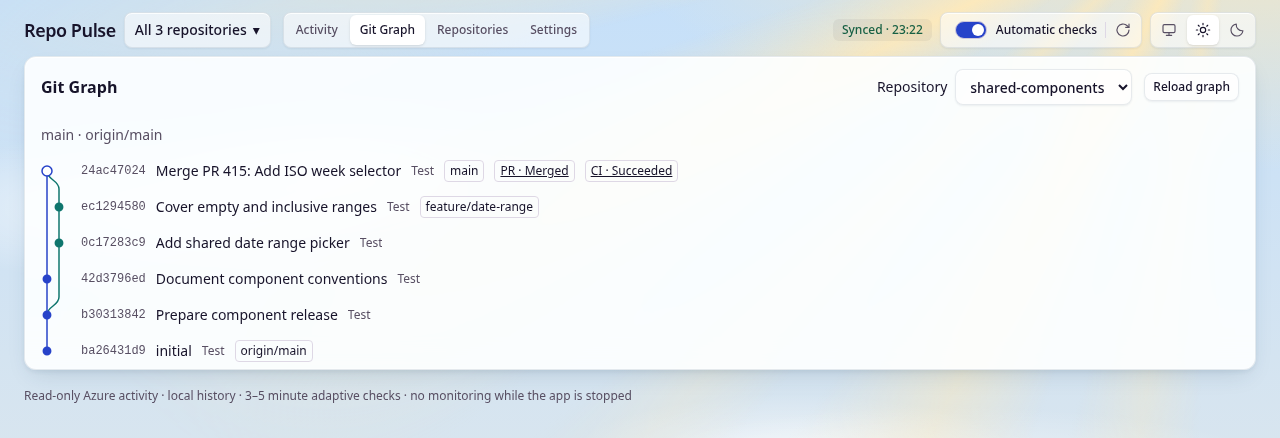
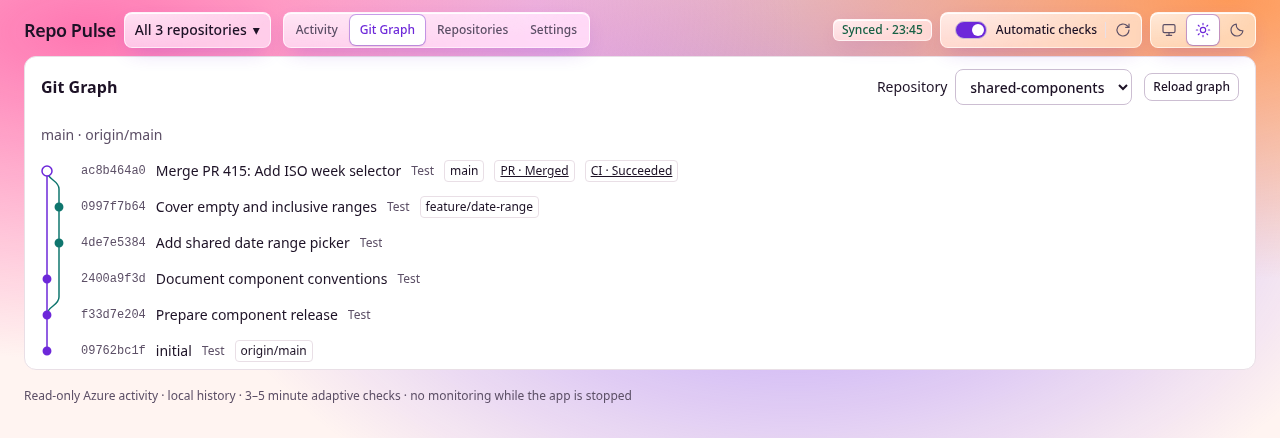
Bring Ember Orbs to light mode

diff --git a/e2e/ui.test.ts b/e2e/ui.test.ts
@@ -98,7 +98,7 @@ test('the row Seen toggle keeps keyboard focus and shows state without a status 
   await expect(seen).toHaveAttribute('aria-pressed', 'false');
   await expect(seen).toBeFocused();
 
-  // A kind without its own tint (a draft PR) still gets the unread wash, and loses it once seen.
+  // A draft PR gets the unread marker and loses it once seen.
   runtime.store.insertEvents([
     {
       id: 'live-draft',
@@ -113,11 +113,11 @@ test('the row Seen toggle keeps keyboard focus and shows state without a status 
   await page.reload();
   const draft = page.locator('li[data-event-id="live-draft"]');
   await expect(draft).toHaveClass(/\btone-neutral\b/);
-  const wash = () => draft.evaluate(element => getComputedStyle(element).backgroundImage);
-  assert.notEqual(await wash(), 'none');
+  await expect(draft).toHaveCSS('box-shadow', /inset/);
+  await expect(draft).toHaveCSS('background-image', 'none');
   await draft.locator('.seen-toggle').click();
   await expect(draft.locator('.seen-toggle')).toHaveAttribute('aria-pressed', 'true');
-  assert.equal(await wash(), 'none');
+  await expect(draft).toHaveCSS('box-shadow', 'none');
 });
 
 test('approved light/dark/System UI and responsive routes work without remote traffic', async t => {
@@ -156,7 +156,7 @@ test('approved light/dark/System UI and responsive routes work without remote tr
   await page.screenshot({ path: 'test-results/app-phone-light.png', fullPage: true });
 });
 
-test('Golden Hour keeps primary actions legible and the desktop Activity summary stacked', async t => {
+test('Ember Orbs keeps glass on the chrome and leaves the Activity feed opaque', async t => {
   const { page } = await setup(t);
   await page.getByRole('button', { name: 'Save filter…' }).click();
   const save = page.getByRole('dialog').getByRole('button', { name: 'Save', exact: true });
@@ -182,8 +182,16 @@ test('Golden Hour keeps primary actions legible and the desktop Activity summary
   const headline = await summary.locator('.headline').boundingBox();
   const counts = await summary.locator('.cells').boundingBox();
   assert.ok(headline && counts && counts.y >= headline.y + headline.height, 'Counts sit below the headline on desktop');
-  assert.match(await page.locator('body').evaluate(body => getComputedStyle(body, '::after').backgroundImage), /conic-gradient/);
+  assert.match(await page.locator('body').evaluate(body => getComputedStyle(body, '::before').backgroundImage), /255, 77, 157/);
   await expect(summary).toHaveCSS('backdrop-filter', /blur/);
+  await expect(page.locator('.feed')).toHaveCSS('backdrop-filter', 'none');
+  await expect(page.locator('.feed')).toHaveCSS('background-color', 'rgb(255, 255, 255)');
+  const session = await page.context().newCDPSession(page);
+  await session.send('Emulation.setEmulatedMedia', { features: [{ name: 'prefers-reduced-transparency', value: 'reduce' }] });
+  await expect(summary).toHaveCSS('backdrop-filter', 'none');
+  await expect(summary).toHaveCSS('background-color', 'rgb(255, 255, 255)');
+  await session.send('Emulation.setEmulatedMedia', { features: [] });
+  await session.detach();
   await page.setViewportSize({ width: 390, height: 844 });
   await expect(summary.locator('.headline')).toBeVisible();
   await expect(summary.locator('.cells')).toBeHidden();
@@ -1636,14 +1644,9 @@ test('semantic status colors match rows, imported history, details and trails in
         const token = kind.classList.contains('merged') ? '--merged' : defaultToken;
         const foreground = rgba(getComputedStyle(kind).color);
         let background = rgba(getComputedStyle(card).backgroundColor);
-        const [cardRed, cardGreen, cardBlue, cardAlpha] = background;
-        if (cardAlpha < 255) {
-          const sky = rgba(tokens.getPropertyValue('--sky-blue'));
-          const blend = (channel: number, base: number) => (channel * cardAlpha + base * (255 - cardAlpha)) / 255;
-          background = [blend(cardRed, sky[0]), blend(cardGreen, sky[1]), blend(cardBlue, sky[2]), 255];
-        }
+        const hasWash = getComputedStyle(row).backgroundImage !== 'none';
         const washToken = washes[tone];
-        if (washToken) {
+        if (washToken && hasWash) {
           const [washRed, washGreen, washBlue, washAlpha] = rgba(tokens.getPropertyValue(washToken));
           const blend = (value: number, tint: number) => (tint * washAlpha) / 255 + value * (1 - washAlpha / 255);
           const [red, green, blue] = background;
@@ -1654,8 +1657,9 @@ test('semantic status colors match rows, imported history, details and trails in
         return {
           id: row.dataset.eventId,
           tone,
-          hasWash: getComputedStyle(row).backgroundImage !== 'none',
-          washed: row.classList.contains('new') || row.classList.contains('crit'),
+          hasWash,
+          unread: row.classList.contains('new'),
+          critical: row.classList.contains('crit'),
           ratio: (Math.max(first, second) + 0.05) / (Math.min(first, second) + 0.05),
           matchesToken: JSON.stringify(foreground) === JSON.stringify(rgba(tokens.getPropertyValue(token))),
         };
@@ -1663,8 +1667,7 @@ test('semantic status colors match rows, imported history, details and trails in
     });
     for (const result of contrast) {
       assert.equal(result.matchesToken, true, `${theme} ${result.id} token`);
-      // The wash marks unread rows and failed runs; seen rows stay plain.
-      assert.equal(result.hasWash, result.washed, `${theme} ${result.id} wash`);
+      assert.equal(result.hasWash, result.critical || (theme === 'Dark' && result.unread), `${theme} ${result.id} wash`);
       assert.ok(result.ratio >= 4.5, `${theme} ${result.id} contrast ${result.ratio}`);
     }
     const trail = page.locator('[data-event-id="canceled-transition"] .trail');
@@ -1677,7 +1680,7 @@ test('semantic status colors match rows, imported history, details and trails in
   await page.locator('[data-event-id="color-completed"] .feed-title').click();
   await expect(page.locator('#page .status-chip')).toHaveClass(/\bok\b/);
   await expect(page.locator('#page .status-chip')).toHaveText('Merged');
-  await expect(page.locator('#page .status-chip')).toHaveCSS('color', 'rgb(122, 63, 196)');
+  await expect(page.locator('#page .status-chip')).toHaveCSS('color', 'rgb(15, 123, 95)');
 });
 
 test('the app-owned type dropdown is themed, keyboard accessible and stable during local polling', async t => {
@@ -1712,7 +1715,7 @@ test('the app-owned type dropdown is themed, keyboard accessible and stable duri
         };
         return {
           panel: style('#kind-panel').backgroundColor,
-          card: style('.summary').backgroundColor,
+          card: style('.feed').backgroundColor,
           option: style('.type-option').color,
           body: getComputedStyle(document.body).color,
         };
@@ -1724,8 +1727,8 @@ test('the app-owned type dropdown is themed, keyboard accessible and stable duri
           return getComputedStyle(element);
         };
         return {
-          panel: style('.summary').backgroundColor,
-          card: style('.summary').backgroundColor,
+          panel: style('.feed').backgroundColor,
+          card: style('.feed').backgroundColor,
           option: getComputedStyle(document.body).color,
           body: getComputedStyle(document.body).color,
         };

diff --git a/web/styles/tokens.css b/web/styles/tokens.css
@@ -6,20 +6,20 @@
   --control-height-sm: 28px;
   --font-sans: -apple-system, BlinkMacSystemFont, 'Inter Variable', 'Segoe UI', system-ui, sans-serif;
   --font-mono: ui-monospace, 'SF Mono', 'SFMono-Regular', Menlo, Consolas, 'Liberation Mono', monospace;
-  --background: #ffefd6;
-  --foreground: #17132a;
+  --background: #fff4f1;
+  --foreground: #1d1226;
   --card: #fff;
-  --muted: #f0ecf5;
-  --table-head: #f7f4f9;
-  --muted-foreground: #584f63;
+  --muted: #f2edf6;
+  --table-head: #f6f0fa;
+  --muted-foreground: #5c4f66;
   /* Between foreground and muted: text that supports a title without competing with it. Resolves per theme. */
   --foreground-soft: color-mix(in oklab, var(--foreground) 80%, var(--muted-foreground));
-  --accent: #efedf5;
-  --border: #ded8e5;
-  --input: #d0c9db;
-  --primary: #2743c9;
+  --accent: #f1eaf8;
+  --border: #e9dfe6;
+  --input: #ccbed2;
+  --primary: #6d28d9;
   --primary-foreground: #fff;
-  --critical: #a12d43;
+  --critical: #b42318;
   --warning: #825416;
   --ok: #176044;
   --critical-solid: oklch(63.7% 0.237 25.331);
@@ -32,46 +32,21 @@
   --primary-wash: color-mix(in oklab, var(--primary) 7%, transparent);
   --shadow-sm: 0 1px 3px 0 rgb(0 0 0 / 0.1), 0 1px 2px -1px rgb(0 0 0 / 0.1);
   --shadow-lg: 0 10px 15px -3px rgb(0 0 0 / 0.1), 0 4px 6px -4px rgb(0 0 0 / 0.1);
-  --sky-blue: #c6e0f9;
-  --sun-glow: #ffe9b8;
   --sky:
-    radial-gradient(56rem 26rem at 96% -8rem, var(--sun-glow), transparent 72%),
-    radial-gradient(30rem 7rem at 16% 13rem, oklch(1 0 0 / 0.75), transparent 70%),
-    radial-gradient(18rem 5rem at 27% 10.5rem, oklch(1 0 0 / 0.7), transparent 70%),
-    radial-gradient(34rem 8rem at 74% 31rem, oklch(1 0 0 / 0.7), transparent 70%),
-    radial-gradient(20rem 5.5rem at 62% 28.5rem, oklch(1 0 0 / 0.65), transparent 70%),
-    radial-gradient(38rem 9rem at 30% 86%, oklch(1 0 0 / 0.7), transparent 70%),
-    radial-gradient(22rem 6rem at 88% 72%, oklch(1 0 0 / 0.6), transparent 70%),
-    linear-gradient(to bottom, var(--sky-blue), color-mix(in oklab, var(--sky-blue) 60%, var(--background)) 55%, var(--background));
+    radial-gradient(ellipse min(68vw, 48rem) 22rem at 7% 2rem, rgb(255 77 157 / 75%), transparent 93%),
+    radial-gradient(ellipse min(63vw, 47rem) 19rem at 96% 0, rgb(255 138 61 / 84%), transparent 92%),
+    radial-gradient(ellipse min(55vw, 40rem) 25rem at 62% 12rem, rgb(124 77 255 / 57%), transparent 94%);
   --stars: none;
-  --beams: conic-gradient(
-    from 180deg at 96% -8rem,
-    transparent 3deg,
-    color-mix(in srgb, var(--sun-glow) 50%, transparent) 9deg,
-    transparent 16deg,
-    transparent 19deg,
-    color-mix(in srgb, var(--sun-glow) 85%, transparent) 28deg,
-    transparent 38deg,
-    transparent 41deg,
-    color-mix(in srgb, var(--sun-glow) 55%, transparent) 46deg,
-    transparent 51deg,
-    transparent 54deg,
-    color-mix(in srgb, var(--sun-glow) 90%, transparent) 63deg,
-    transparent 73deg,
-    transparent 76deg,
-    color-mix(in srgb, var(--sun-glow) 60%, transparent) 82deg,
-    transparent 88deg
-  );
   --info: var(--primary);
-  --merged: #7a3fc4;
-  --approved: #1b7a3d;
+  --merged: #0f7b5f;
+  --approved: #0a6c9c;
   --neutral-solid: color-mix(in oklab, var(--muted-foreground) 60%, transparent);
   /* Branch lanes in the Activity tree. Each keeps at least 4.5:1 against the card in its theme. */
-  --lane-1: #2743c9;
+  --lane-1: #6d28d9;
   --lane-2: #0f766e;
-  --lane-3: #c2410c;
+  --lane-3: #c81e6a;
   --lane-4: #68479a;
-  --lane-5: #a43b65;
+  --lane-5: #95481d;
   --lane-6: #48723f;
 }
 @media (max-width: 767px) {
@@ -171,57 +146,35 @@ body::after {
     613px 541px,
     877px 769px;
 }
-:root:not(.dark) body::after {
-  background-image: var(--beams);
-  background-repeat: no-repeat;
-  background-size: auto;
-  -webkit-mask-image: radial-gradient(120rem 75rem at 96% -8rem, black 20%, transparent 72%);
-  mask-image: radial-gradient(120rem 75rem at 96% -8rem, black 20%, transparent 72%);
-}
 
+/* Translucent chrome catches the backdrop. Reading surfaces use the opaque card token. */
 @supports (backdrop-filter: blur(1px)) or (-webkit-backdrop-filter: blur(1px)) {
-  :root:not(.dark) {
-    --glass-fill: oklch(1 0 0 / 0.72);
-    --glass-dense: oklch(1 0 0 / 0.9);
-    --glass-control: oklch(1 0 0 / 0.57);
-    --glass-edge: oklch(0.55 0.04 245 / 0.14);
-    --glass-blur: blur(14px) saturate(1.3);
-    --glass-shadow:
-      inset 0 1px 0 oklch(1 0 0 / 0.92), inset 0 0 0 1px oklch(1 0 0 / 0.3), 0 2px 4px oklch(0.35 0.05 245 / 0.07),
-      0 10px 24px -9px oklch(0.35 0.06 245 / 0.18);
-  }
-  :root:not(.dark) :is(.card, .menu-panel, dialog) {
-    background: var(--glass-fill);
-    border-color: var(--glass-edge);
-    box-shadow: var(--glass-shadow);
-    -webkit-backdrop-filter: var(--glass-blur);
-    backdrop-filter: var(--glass-blur);
-  }
-  :root:not(.dark) :is(.feed, .summary, .git-graph, .menu-panel, dialog) {
-    background: var(--glass-dense);
-  }
-  :root:not(.dark) :where(.control, .btn:not(.primary), .search, .seg) {
-    background: var(--glass-control);
-    border-color: var(--glass-edge);
-    box-shadow:
-      inset 0 1px 0 oklch(1 0 0 / 0.85),
-      0 1px 2px oklch(0.35 0.05 245 / 0.08);
-  }
-  :root:not(.dark) :is(.control, .btn:not(.primary)):hover {
-    background: oklch(1 0 0 / 0.8);
-  }
-  :root:not(.dark) .type-option:not(:hover, :focus) {
-    background: transparent;
-  }
-}
-@media (prefers-reduced-transparency: reduce) {
-  :root:not(.dark) {
-    --glass-fill: var(--card);
-    --glass-dense: var(--card);
-    --glass-control: var(--card);
-    --glass-blur: none;
-  }
-  :root:not(.dark) :is(.control, .btn:not(.primary)):hover {
-    background: var(--accent);
+  @media not (prefers-reduced-transparency: reduce) {
+    :root:not(.dark)
+      :where(
+        .summary,
+        .filters-toggle,
+        .activity-filter-bar .control,
+        .activity-filter-bar .btn,
+        .activity-filter-bar .search,
+        .app .control,
+        .app .seg,
+        .app .sync-pill
+      ) {
+      border-color: rgb(255 255 255 / 76%);
+      border-bottom-color: rgb(255 255 255 / 43%);
+      background: radial-gradient(ellipse at 3% 0, rgb(255 255 255 / 47%), transparent 72%), rgb(255 255 255 / 59%);
+      box-shadow:
+        inset 0 1px 0 rgb(255 255 255 / 92%),
+        0 8px 22px -8px rgb(109 40 217 / 32%);
+      -webkit-backdrop-filter: blur(26px) saturate(1.55);
+      backdrop-filter: blur(26px) saturate(1.55);
+    }
+    :root:not(.dark) .app .seg > :is([aria-current='page'], [aria-pressed='true']) {
+      color: var(--primary);
+      box-shadow:
+        0 0 0 1px rgb(109 40 217 / 37%),
+        var(--shadow-sm);
+    }
   }
 }

diff --git a/web/styles/feed.css b/web/styles/feed.css
@@ -356,6 +356,15 @@ ol.rows {
 .row.new.tone-neutral {
   background-image: linear-gradient(90deg, var(--primary-wash), transparent 36%);
 }
+:root:not(.dark) .feed .ghead {
+  background: var(--table-head);
+}
+:root:not(.dark) .feed .row.new {
+  box-shadow: inset 3px 0 var(--primary);
+}
+:root:not(.dark) .feed .row.new:not(.crit) {
+  background-image: none;
+}
 .row.new .title {
   font-weight: 600;
 }
@@ -1009,6 +1018,9 @@ ol.rows {
 }
 .tree line.default-lane {
   stroke-width: 2.5;
+}
+:root:not(.dark) .tree :is(line:not(.default-lane), path:not(.tag-mark path)) {
+  stroke-width: 2;
 }
 .tree .ci-node,
 .tree-key .ci-node {

diff --git a/README.md b/README.md
@@ -14,10 +14,10 @@ A local Azure DevOps activity feed for testers. Watch multiple repositories for 
 
 | Screen       | Light mode                                      | Dark mode                                     |
 | ------------ | ----------------------------------------------- | --------------------------------------------- |
-| Activity     | [Golden Hour](docs/screenshots/activity-light.png) | [Dark](docs/screenshots/activity-dark.png)     |
-| Git Graph    | [Golden Hour](docs/screenshots/git-graph-light.png) | [Dark](docs/screenshots/git-graph-dark.png)    |
-| Repositories | [Golden Hour](docs/screenshots/repositories-light.png) | [Dark](docs/screenshots/repositories-dark.png) |
-| Settings     | [Golden Hour](docs/screenshots/settings-light.png) | [Dark](docs/screenshots/settings-dark.png)    |
+| Activity     | [Ember Orbs](docs/screenshots/activity-light.png) | [Dark](docs/screenshots/activity-dark.png)     |
+| Git Graph    | [Ember Orbs](docs/screenshots/git-graph-light.png) | [Dark](docs/screenshots/git-graph-dark.png)    |
+| Repositories | [Ember Orbs](docs/screenshots/repositories-light.png) | [Dark](docs/screenshots/repositories-dark.png) |
+| Settings     | [Ember Orbs](docs/screenshots/settings-light.png) | [Dark](docs/screenshots/settings-dark.png)    |
 
 ## Run locally
 
